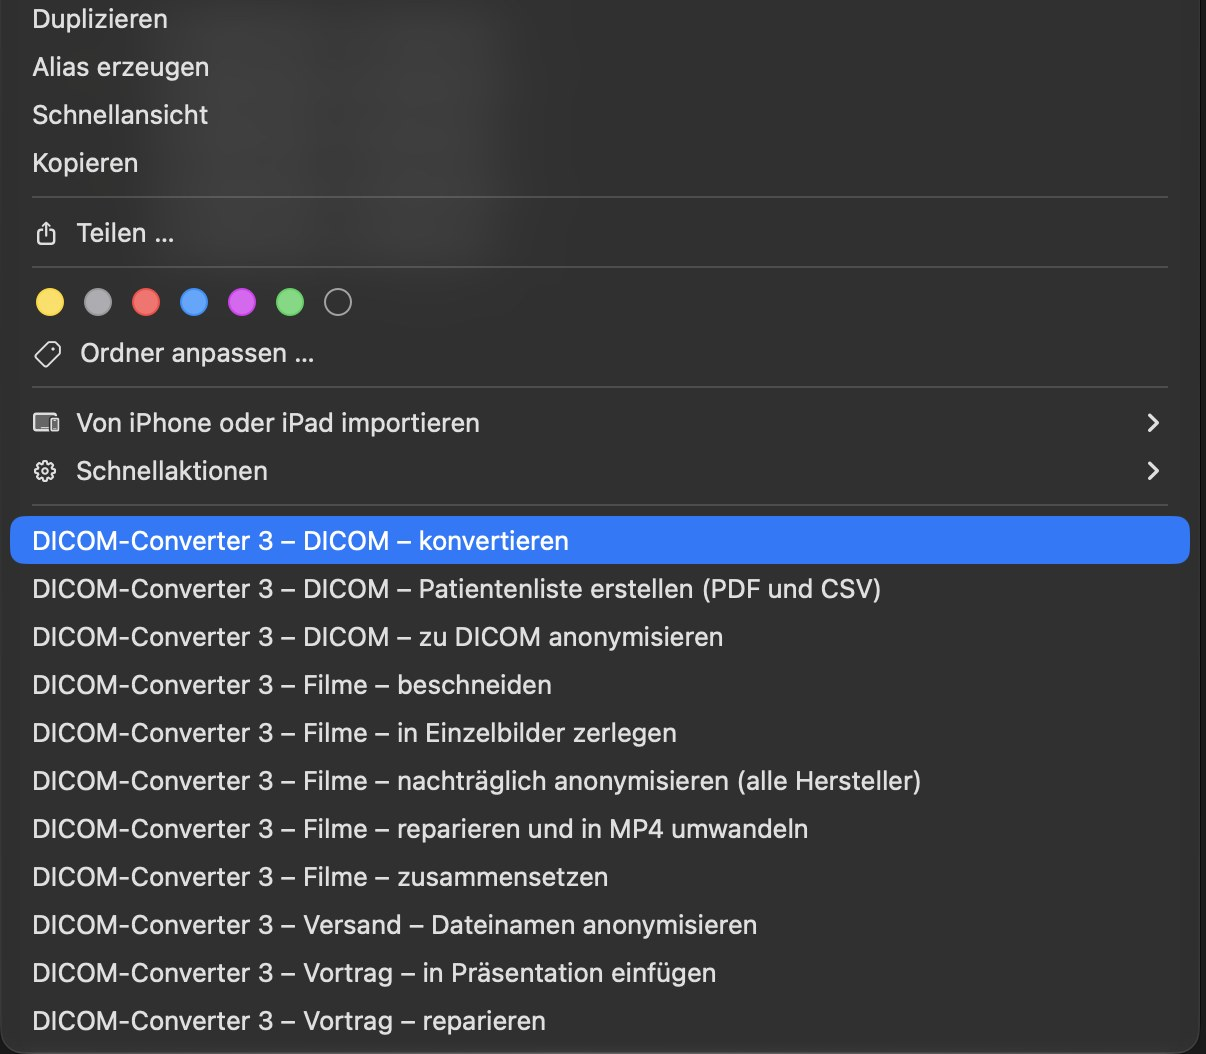
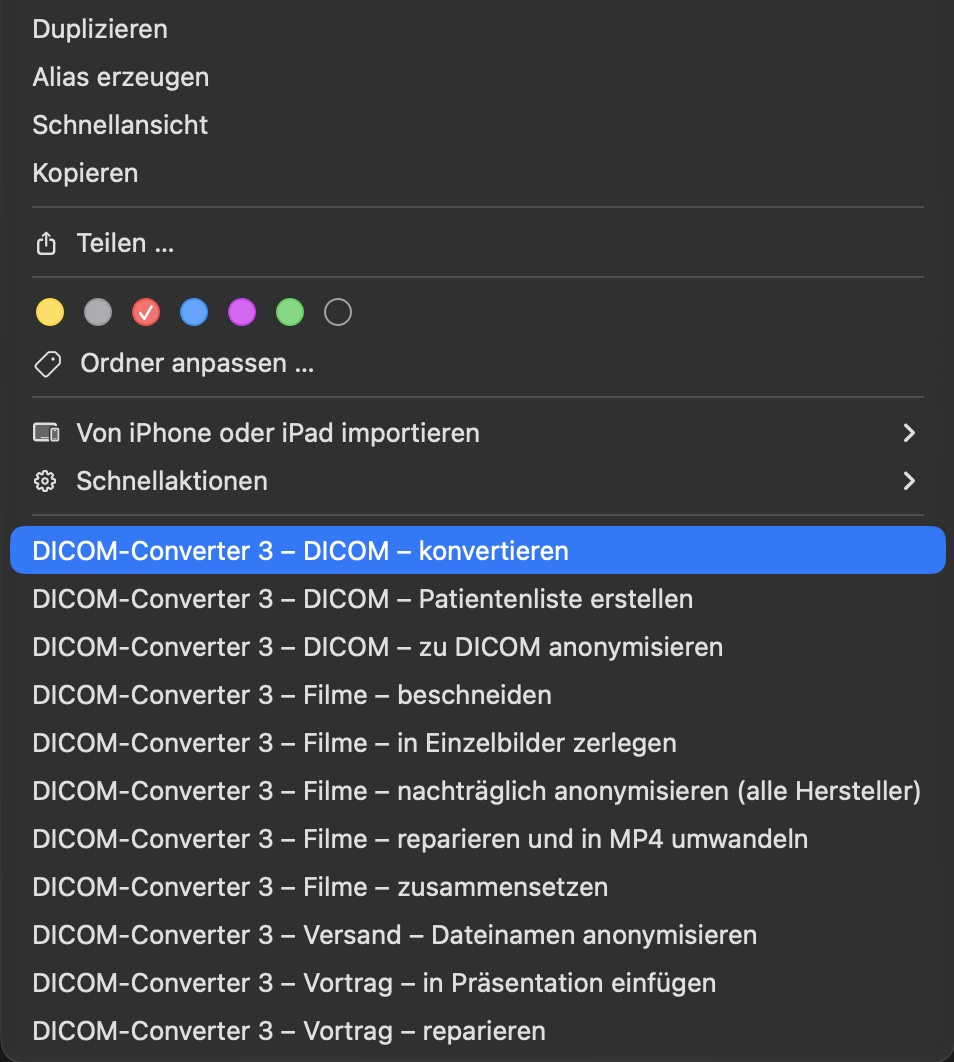
DICOM-Converter 3.0.0.567 (28.11.2026)

Changed region(s): [[0.0, 0.0, 1.0, 1.0], [0.456, 0.2429, 0.9727, 0.2732]]

diff --git a/en/index.html b/en/index.html
@@ -465,7 +465,7 @@ the settings in the <a href="https://github.com/jensberger-dev/dicom-converter/r
   <li><b>Mac:</b> <i>DICOM-Converter 3 – DICOM – convert</i> at the very bottom of the menu (on some Macs in the submenu <i>Quick Actions</i>).</li>
 </ul>
 <figure><img src="../img/win-kontextmenue.jpg" alt="Windows context menu with the submenu DICOM-Converter 3"><figcaption>Windows: right-click the folder “DICOM” → DICOM-Converter 3</figcaption></figure>
-<figure style="max-width:603px"><img src="../img/mac-kontextmenue.jpg" alt="Mac context menu with the entries DICOM-Converter 3"><figcaption>Mac: right-click the folder → the entries “DICOM-Converter 3 – …” are at the very bottom</figcaption></figure>
+<figure style="max-width:477px"><img src="../img/mac-kontextmenue.jpg" alt="Mac context menu with the entries DICOM-Converter 3"><figcaption>Mac: right-click the folder → the entries “DICOM-Converter 3 – …” are at the very bottom</figcaption></figure>
 
 <p>A small window shows how far the conversion has got and at the end lists every file with its result.
 <b>Open destination folder</b> shows the finished movies.</p>

diff --git a/index.html b/index.html
@@ -465,7 +465,7 @@ umwandeln“).</p>
   <li><b>Mac:</b> <i>DICOM-Converter 3 – DICOM – konvertieren</i> ganz unten im Menü (bei manchen Macs im Untermenü <i>Schnellaktionen</i>).</li>
 </ul>
 <figure><img src="img/win-kontextmenue.jpg" alt="Windows-Rechtsklickmenü mit Untermenü DICOM-Converter 3"><figcaption>Windows: Rechtsklick auf den Ordner „DICOM“ → DICOM-Converter 3</figcaption></figure>
-<figure style="max-width:603px"><img src="img/mac-kontextmenue.jpg" alt="Mac-Rechtsklickmenü mit den Einträgen DICOM-Converter 3"><figcaption>Mac: Rechtsklick auf den Ordner → die Einträge „DICOM-Converter 3 – …“ stehen ganz unten</figcaption></figure>
+<figure style="max-width:477px"><img src="img/mac-kontextmenue.jpg" alt="Mac-Rechtsklickmenü mit den Einträgen DICOM-Converter 3"><figcaption>Mac: Rechtsklick auf den Ordner → die Einträge „DICOM-Converter 3 – …“ stehen ganz unten</figcaption></figure>
 
 <p>Ein kleines Fenster zeigt, wie weit die Umwandlung ist, und listet am Ende jede Datei mit ihrem Ergebnis auf.
 Mit <b>Zielordner öffnen</b> sehen Sie die fertigen Filme.</p>
